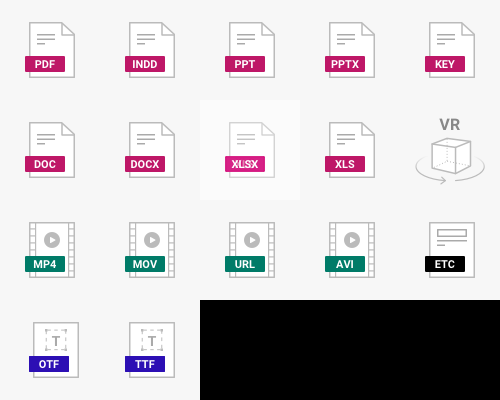
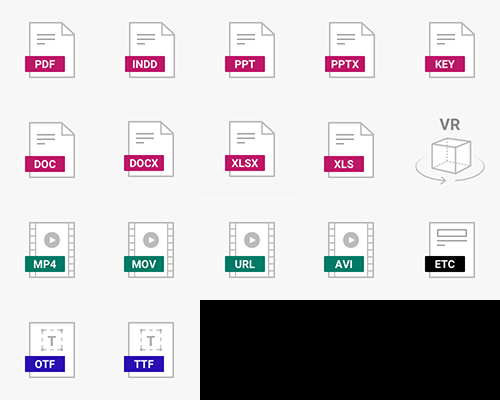
MO ,PC 디자인 수정 반영

diff --git a/frontend-m/src/assets/css/ui.nikeFront.css b/frontend-m/src/assets/css/ui.nikeFront.css
@@ -1930,7 +1930,7 @@
     display: block;
     width: 100%;
     padding-top: 100%;
-    background: #eeeeee;
+    background: #f7f7f7;
     overflow: hidden;
 }
 .thumb-file .thumb img {
